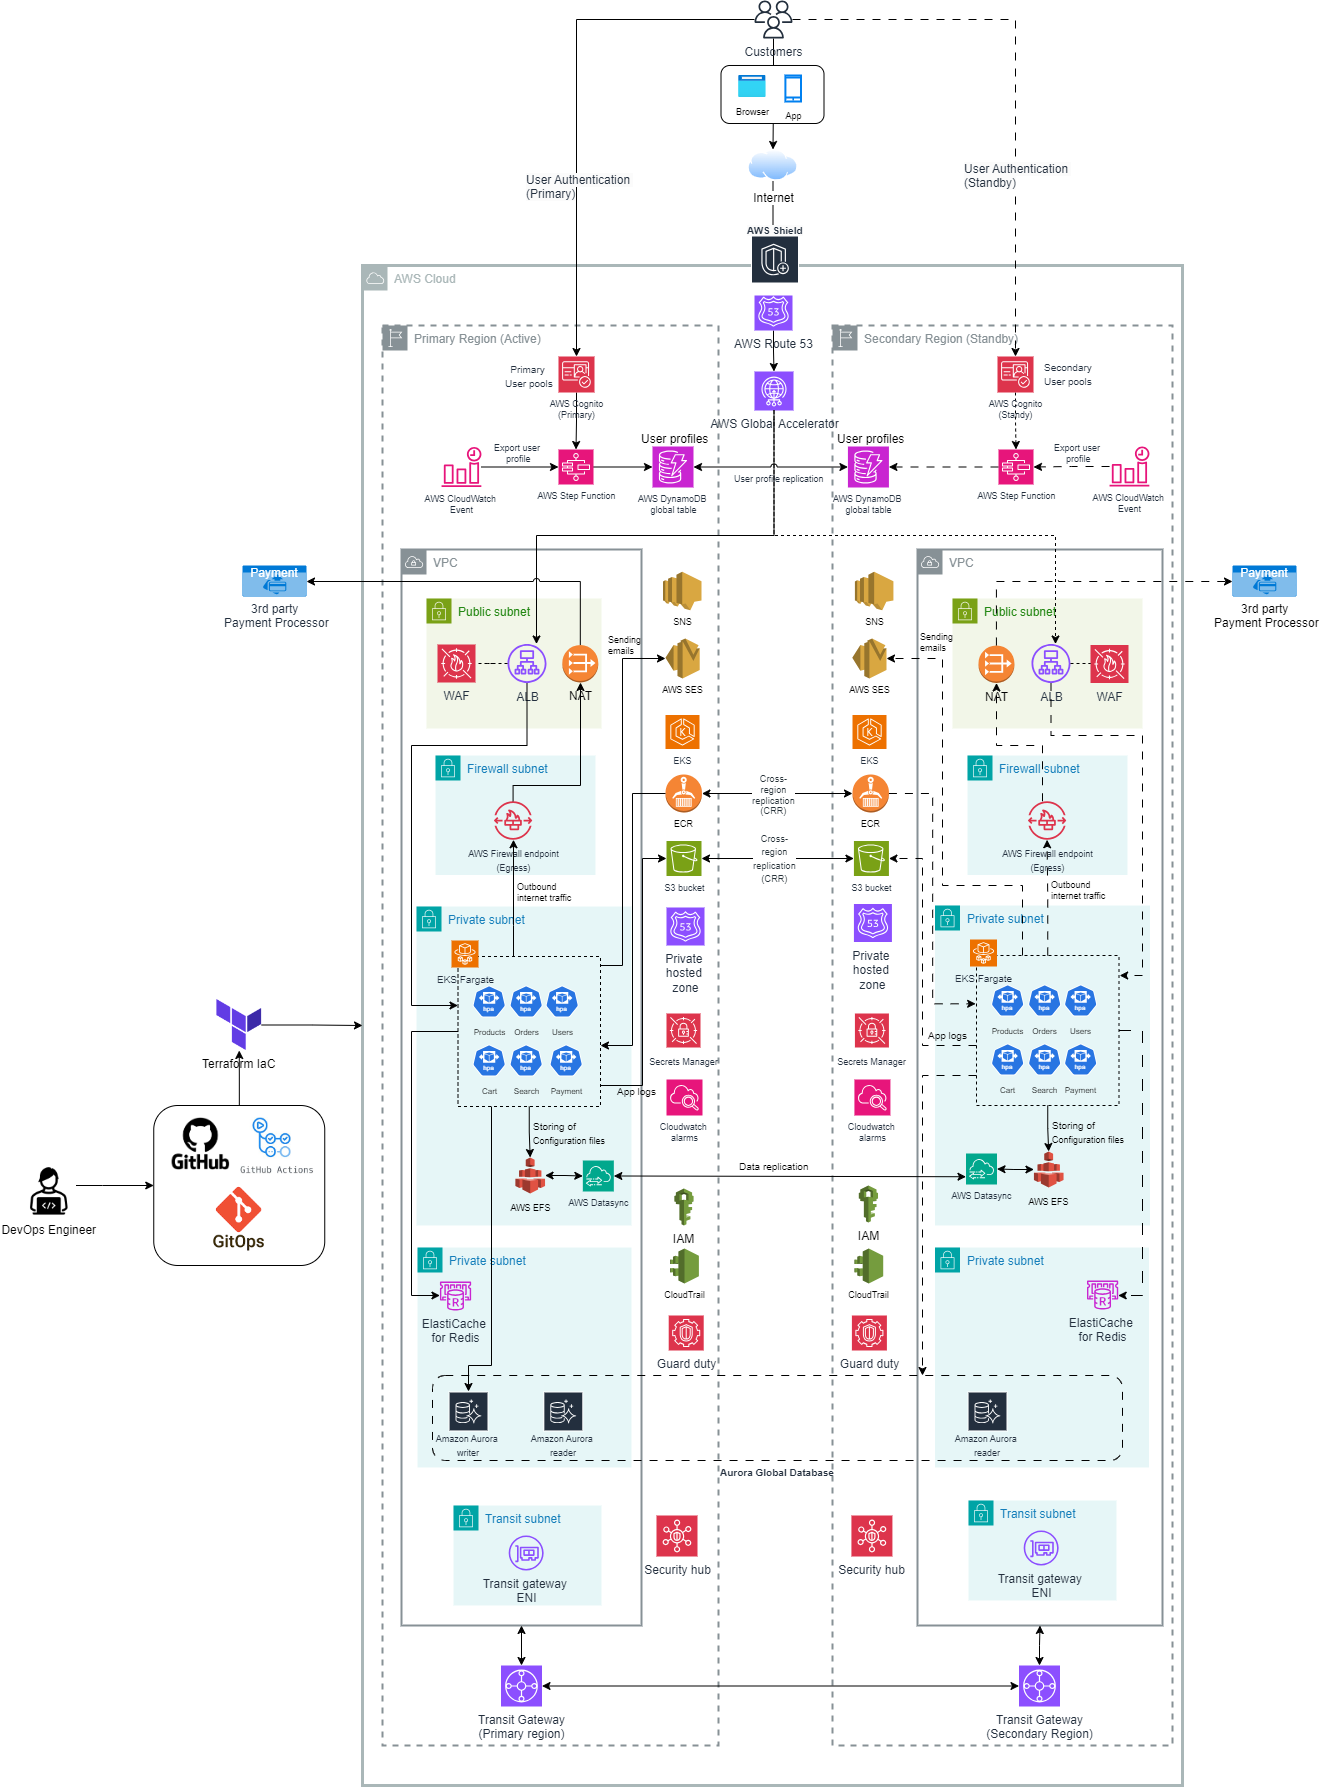
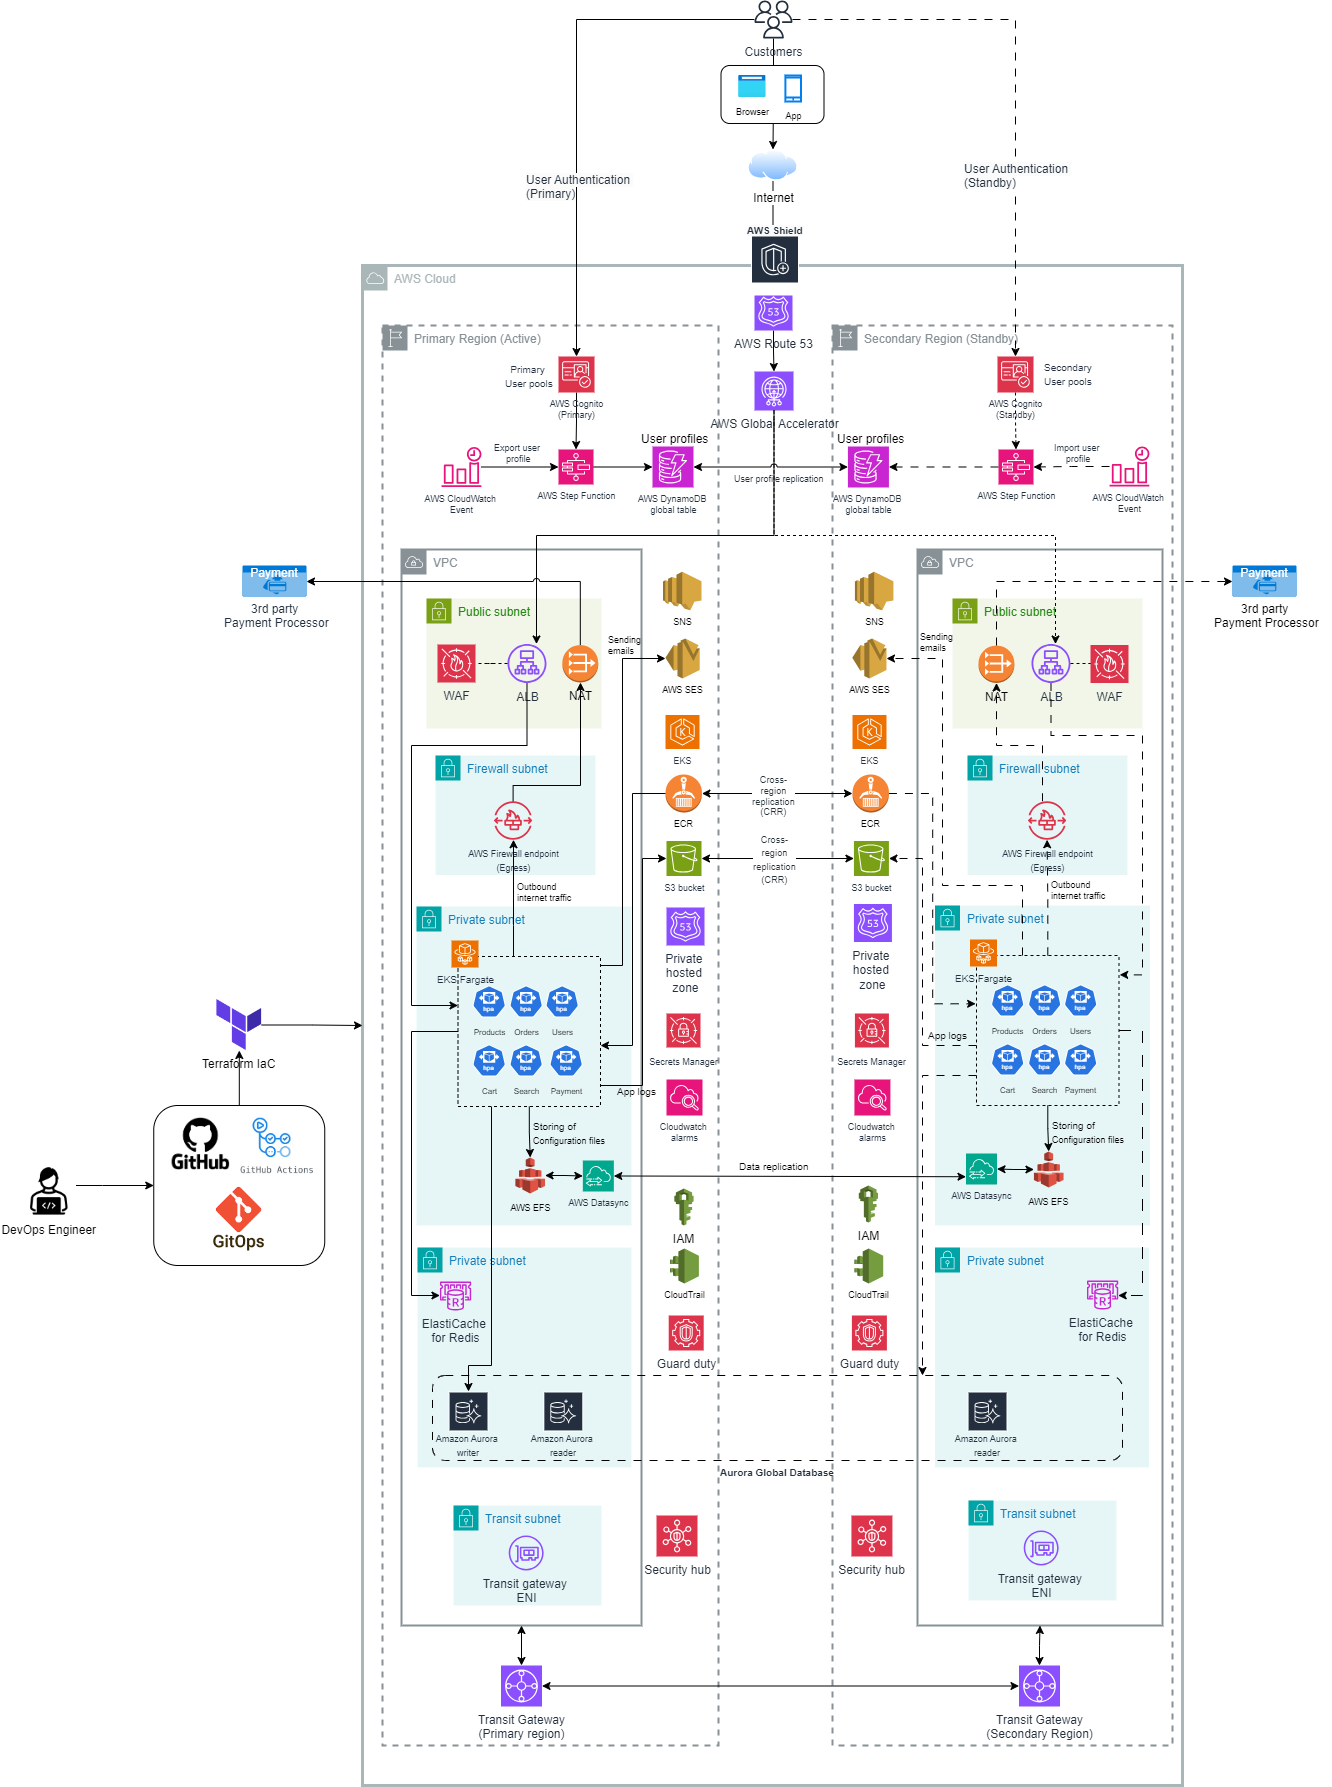
Updated module 4

diff --git a/module4/README.md b/module4/README.md
@@ -10,6 +10,38 @@ Please refer to the architecture diagram below
 ![Module 4 - Architecture Diagram](architecture-diagram/module4-diagram.png)
 
 ## Solution Overview
+This diagram depicts a multi-region active-passive architecture deployed on AWS across two regions.  Each region hosts an EKS cluster running on Fargate. Region 1 is the primary region, where pods are configured for horizontal pod autoscaling.  Application configuration files and other stateful data reside in AWS EFS and are replicated to the secondary region using AWS DataSync at regular intervals. Container images are pulled from ECR, and application logs are exported to S3, with both ECR and S3 content also replicated to the secondary region.
+
+AWS AuroraDB Global Database is used, with a write/read instance in the primary region and a read-only instance in the secondary region.  This secondary instance is synchronized with the primary and can be promoted to a write instance in the event of a failover. AWS Route 53 private hosted zones are integrated with the Aurora writer/reader endpoints, providing simplified DNS names for the EKS application to use.
+
+AWS Global Accelerator is setup with two endpoint groups: one for the primary region and one for the secondary (failover) region with application load balancer fronting. The traffic dial is set to 100% directing all user traffic to the primary region.
+
+Users authenticate and authorize with the e-commerce platform's web and mobile applications via AWS Cognito. Due to Cognito's lack of built-in cross-region replication, a custom solution is employed. CloudWatch Events and AWS Step Functions periodically export user profiles and groups to a DynamoDB global table in the primary region.  DynamoDB replicates these updates to the secondary region, where they are imported into the standby Cognito user pool.  A third-party identity management platform, such as Okta, is also a potential alternative.
+
+Outbound internet traffic originating from the EKS cluster is routed through AWS Firewall endpoints for inspection.  At the firewall endpoints, the firewall rules is implemented, including whitelisting of approved domain names and Fully Qualified Domain Names (FQDNs). These rules govern whether the traffic is allowed to proceed to its destination on the internet.  Only traffic matching the defined criteria, such as whitelisted domains, is allowed to traverse the firewall and is subsequently routed to the NAT gateway.
+
+Infrastructure as Code (IaC) tools such as Terraform should be utilized for deployment of the setup in the diagram for multi-region so that it allows for version control, automation and repeatability. Furthermore, CI/CD tools, like GitHub Actions or GitOps, should be integrated to automate the build, test, and deployment pipelines.
 
 
-# Estimation of costs
+### Components
+- AWS Global Accelerator: Provides a single, static entry point (IP addresses or DNS name) for the application. Uses traffic dials to route 100% of traffic to the primary region (active) and 0% to the secondary region (standby).
+- AWS Application Load Balancer: The ALB distributes traffic across the EKS pools in each region with the primary region actively serving traffic. The ALB in secondary region is configured in standby mode (routed by AWS Global Accelerator)
+- AWS Cognito: AWS Cognito is used for performing user authentication, authorization to the e-commerce platform. 
+- AWS EKS (Elastic Kubernetes Service): Kubernetes clusters in Fargate mode hosting application microservices. Pods are configured in horizontal pod autoscaling
+- AWS ECR (Elastic Container Registry): 
+- AWS AuroraDB Global Database: The primary Aurora cluster (writer and reader) resides in the primary region. Read replicas are located in the secondary region which can be promoted as primary during a failover
+- AWS Network Firewall: Used for performing egress network traffic to the internet
+- AWS EFS: Used for storing of application persistent configuration files
+- AWS Datasync: For replication of application configuration files across different region
+- AWS S3: For storing of application logs, IaC state files
+- AWS SES (Simple Email Service): To allow sending of emails from EKS cluster
+- AWS Shield Standard: AWS Shield Standard provides a basic level of DDoS protection to all AWS customers without any extra cost and it is a valuable first line of defense against common attacks.
+- AWS WAF (Web Application Firewall): The WAF is configured with Application load balancers to inspect incoming web requests and helps to protect against common web application attacks such as SQL injection, cross site scripting, etc.
+- Monitoring and Alerts: CloudWatch alarms are utilized to 
+
+
+### 
+
+
+
+## Estimation of costs
